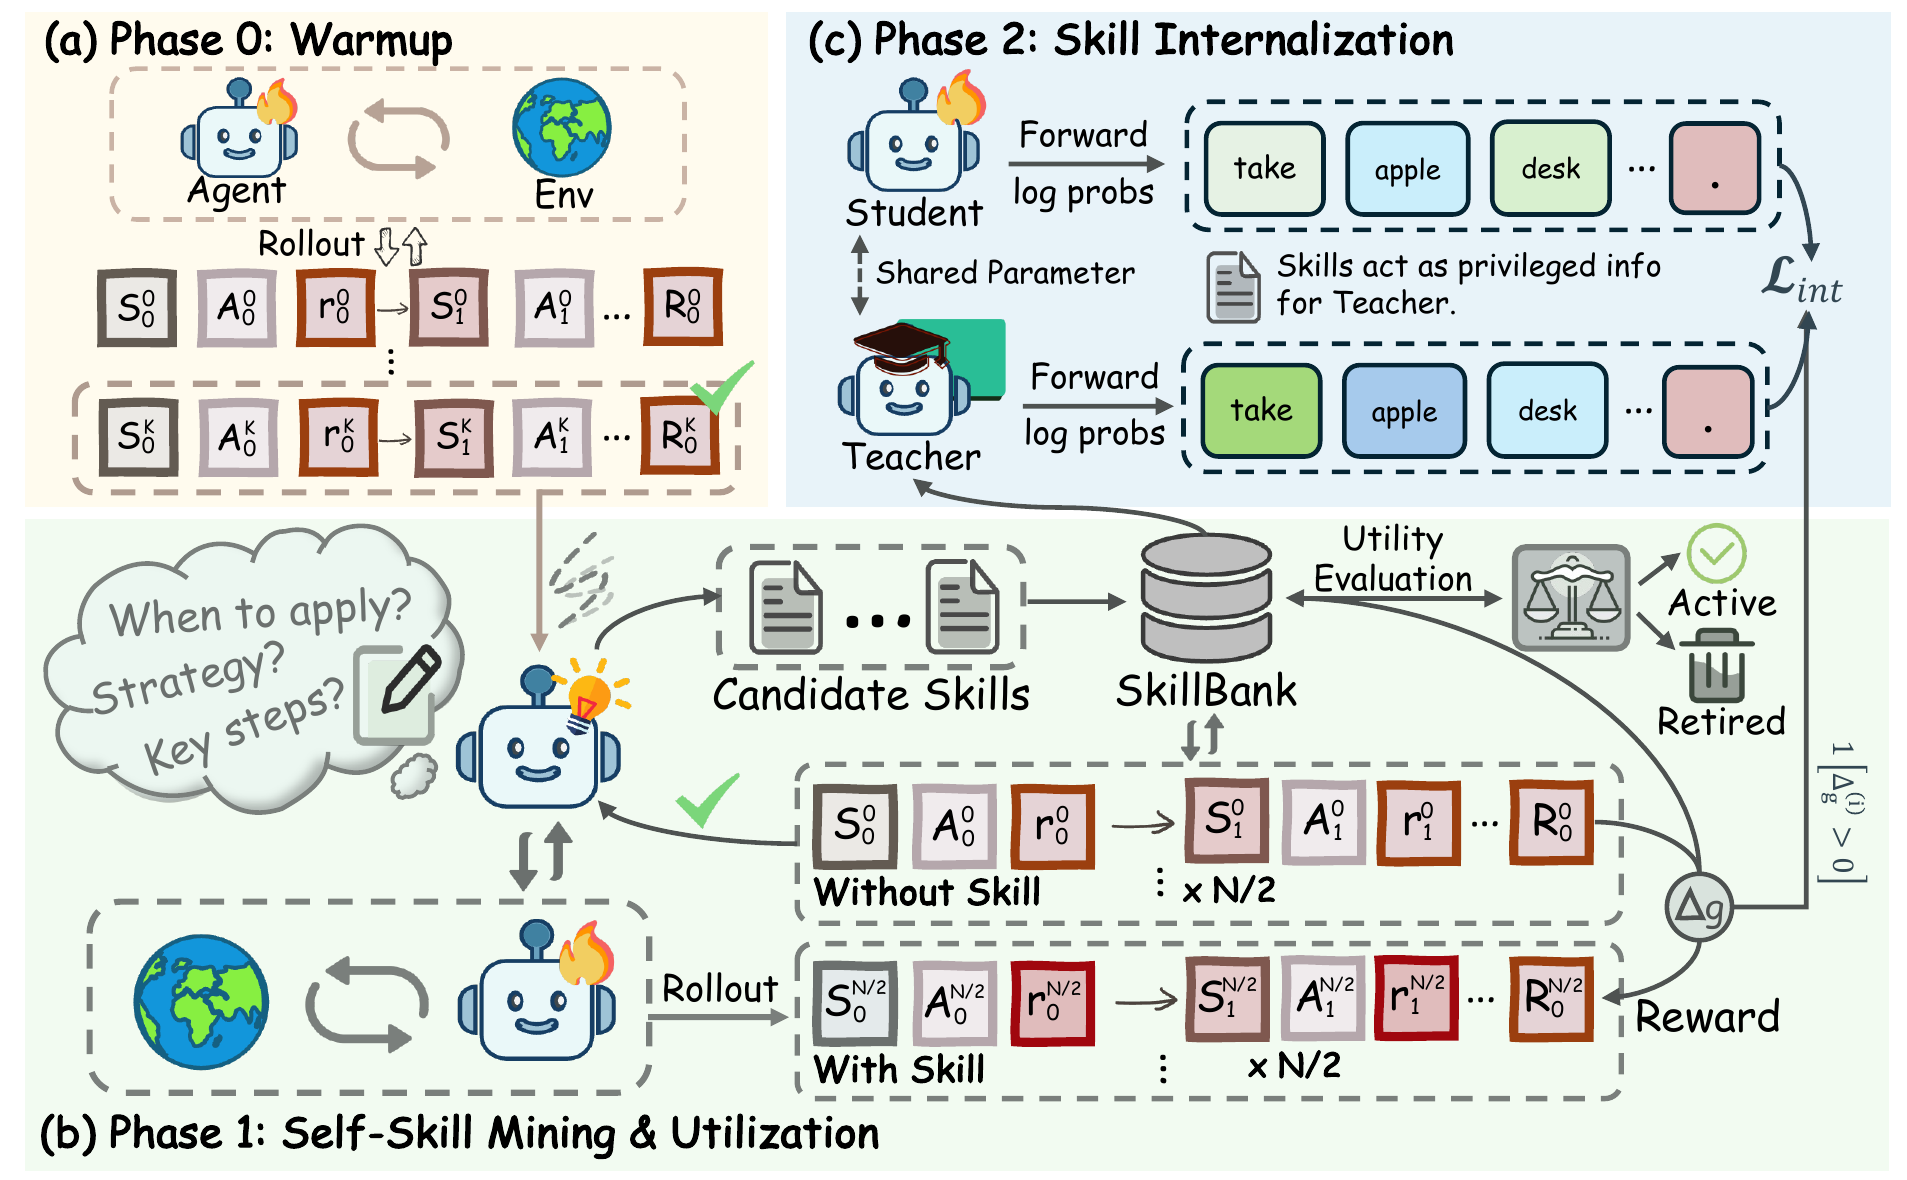
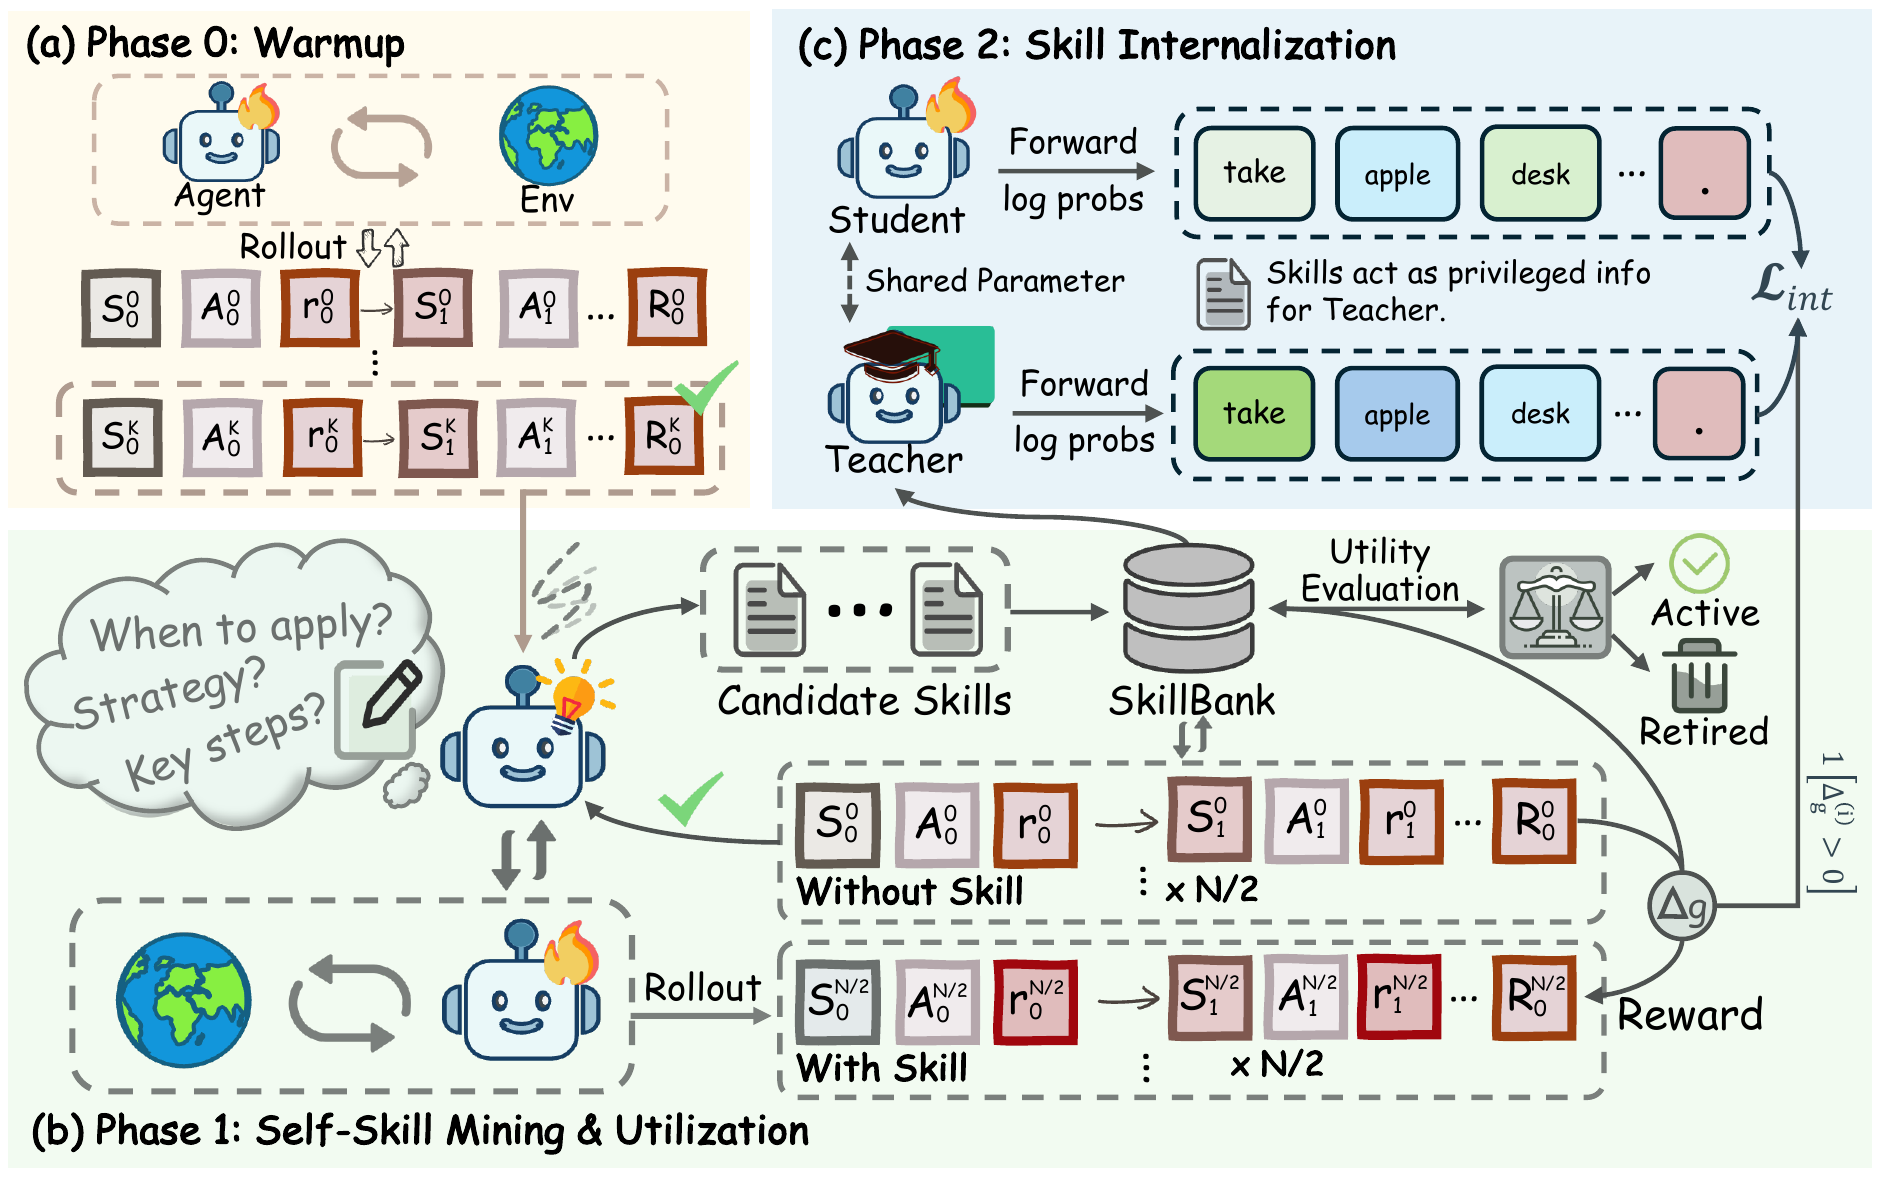
Update motivation and framework figures to latest versions

Changed region(s): [[0.0, 0.0, 0.9872, 0.9763], [0.8021, 0.9153, 0.833, 0.9458]]

diff --git a/SIRI/index.html b/SIRI/index.html
@@ -7,13 +7,13 @@
   <meta property="og:title" content="SIRI: Self-Internalizing Reinforcement Learning with Intrinsic Skills for LLM Agent Training"/>
   <meta property="og:description" content="A three-phase framework that enables LLM agents to discover, validate, and internalize skills — no external skill generators, no inference-time skill banks."/>
   <meta property="og:url" content="https://hezy618.github.io/SIRI/"/>
-  <meta property="og:image" content="https://hezy618.github.io/SIRI/static/images/motivation.png" />
+  <meta property="og:image" content="https://hezy618.github.io/SIRI/static/images/motivation.png?v=2" />
   <meta property="og:image:width" content="1200"/>
   <meta property="og:image:height" content="630"/>
 
   <meta name="twitter:title" content="SIRI: Self-Internalizing RL with Intrinsic Skills for LLM Agent Training">
   <meta name="twitter:description" content="LLM agents that discover, validate, and internalize skills — retrieval-free at inference.">
-  <meta name="twitter:image" content="https://hezy618.github.io/SIRI/static/images/motivation.png">
+  <meta name="twitter:image" content="https://hezy618.github.io/SIRI/static/images/motivation.png?v=2">
   <meta name="twitter:card" content="summary_large_image">
   <meta name="keywords" content="LLM agent, reinforcement learning, skill discovery, skill internalization, ALFWorld, WebShop">
   <meta name="viewport" content="width=device-width, initial-scale=1">
@@ -108,7 +108,7 @@
 <section class="hero teaser">
   <div class="container is-max-desktop">
     <div class="hero-body">
-      <img src="static/images/motivation.png" alt="Motivation: comparison between skill-augmentation methods and SIRI" class="teaser-image" width="75%" style="display: block; margin: 0 auto;">
+      <img src="static/images/motivation.png?v=2" alt="Motivation: comparison between skill-augmentation methods and SIRI" class="teaser-image" width="75%" style="display: block; margin: 0 auto;">
       <h2 class="subtitle has-text-centered">
         (a) Prior skill-based methods rely on external skill generators during training and retrieve skills from a persistent skill bank at inference.
         (b) <b><span class="methodname">S<span class="mn-small">IRI</span></span></b> mines skills from its own successful rollouts and internalizes them into the policy — retrieval-free at inference.
@@ -142,7 +142,7 @@
       <h2 class="title is-3 has-text-centered">Framework</h2>
       <div class="columns is-centered has-text-centered">
         <div class="column">
-          <img src="static/images/framework.png" alt="Overview of the SIRI framework" class="framework-image" style="max-width: 95%; height: auto;">
+          <img src="static/images/framework.png?v=2" alt="Overview of the SIRI framework" class="framework-image" style="max-width: 95%; height: auto;">
         </div>
       </div>
       <div class="columns is-centered">
